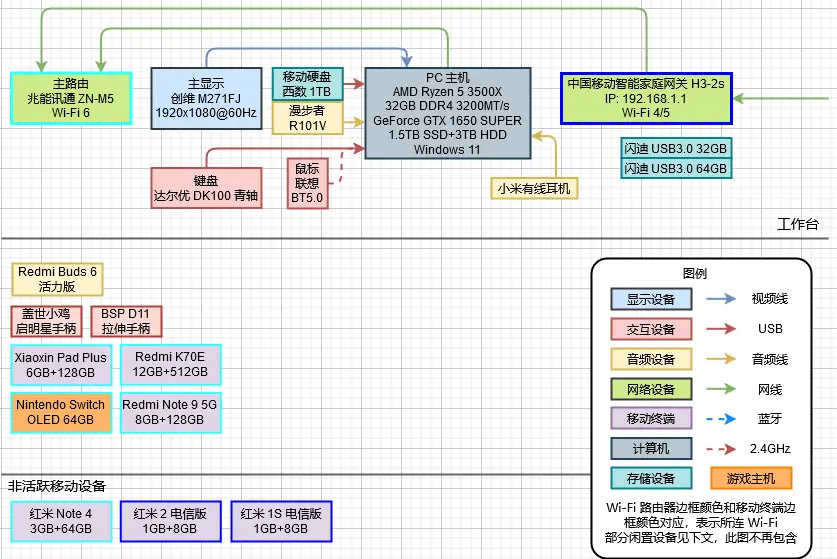
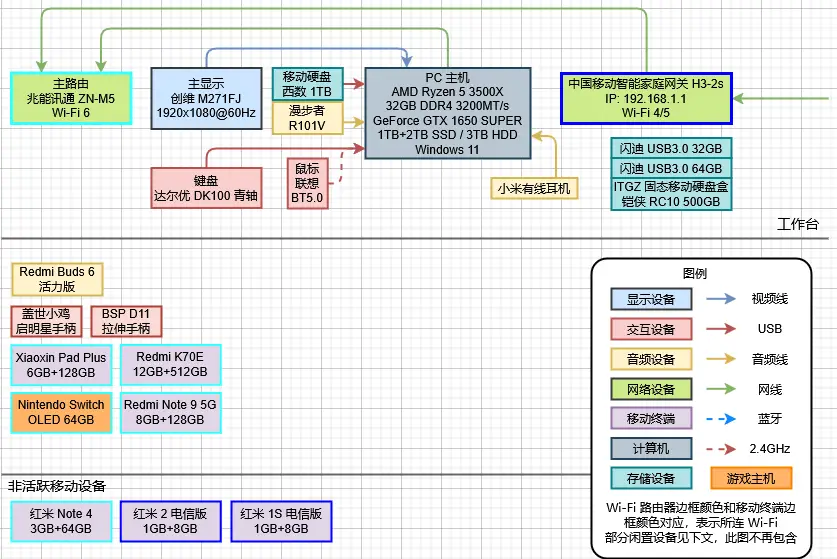
Update 2022-01-27-my-devices.md

diff --git a/source/_posts/2022-01-27-my-devices.md b/source/_posts/2022-01-27-my-devices.md
@@ -3,8 +3,8 @@ title: "我的电子设备们"
 top_img: false
 ---
 
-- **本文最后更新**：2025-02-04
-- **设备布线图最后更新**：2025-02-04
+- **本文最后更新**：2025-02-20
+- **设备布线图最后更新**：2025-02-20
 
 <img src="/img/in-post/device-map.webp" />
 
@@ -15,9 +15,9 @@ top_img: false
 - **CPU**: AMD Ryzen 5 3500X
 - **GPU**: NVIDIA GeForce GTX 1650 SUPER (4GB GDDR6)
 - **主板**: 微星 B450M MORTAR MAX
-- **RAM**: 32GB DDR4 3200MT/s
-- **SSD1**: 铠侠 RC10 500GB NVMe
-- **SSD2**: 铠侠 RC10 1TB NVMe
+- **RAM**: 光威 32GB DDR4 3200MT/s
+- **SSD1**: 铠侠 RC10 1TB NVMe
+- **SSD2**: 铠侠 RC20 2TB NVMe
 - **HDD**: 东芝 DT01ACA300 3TB
 - **显示器**: 创维 M271FJ 27" (1920x1080)
 - **键盘**: 达尔优 DK100 青轴
@@ -49,6 +49,7 @@ top_img: false
 - **OS**: Windows 8.1 32-bit
 
 ### 存储设备
+- `铠侠 RC10` 500GB + `ITGZ M.2 固态移动硬盘盒`
 - `WD Elements` 1TB
 - `SanDisk CZ73` 64GB
 - `SanDisk CZ73` 32GB
